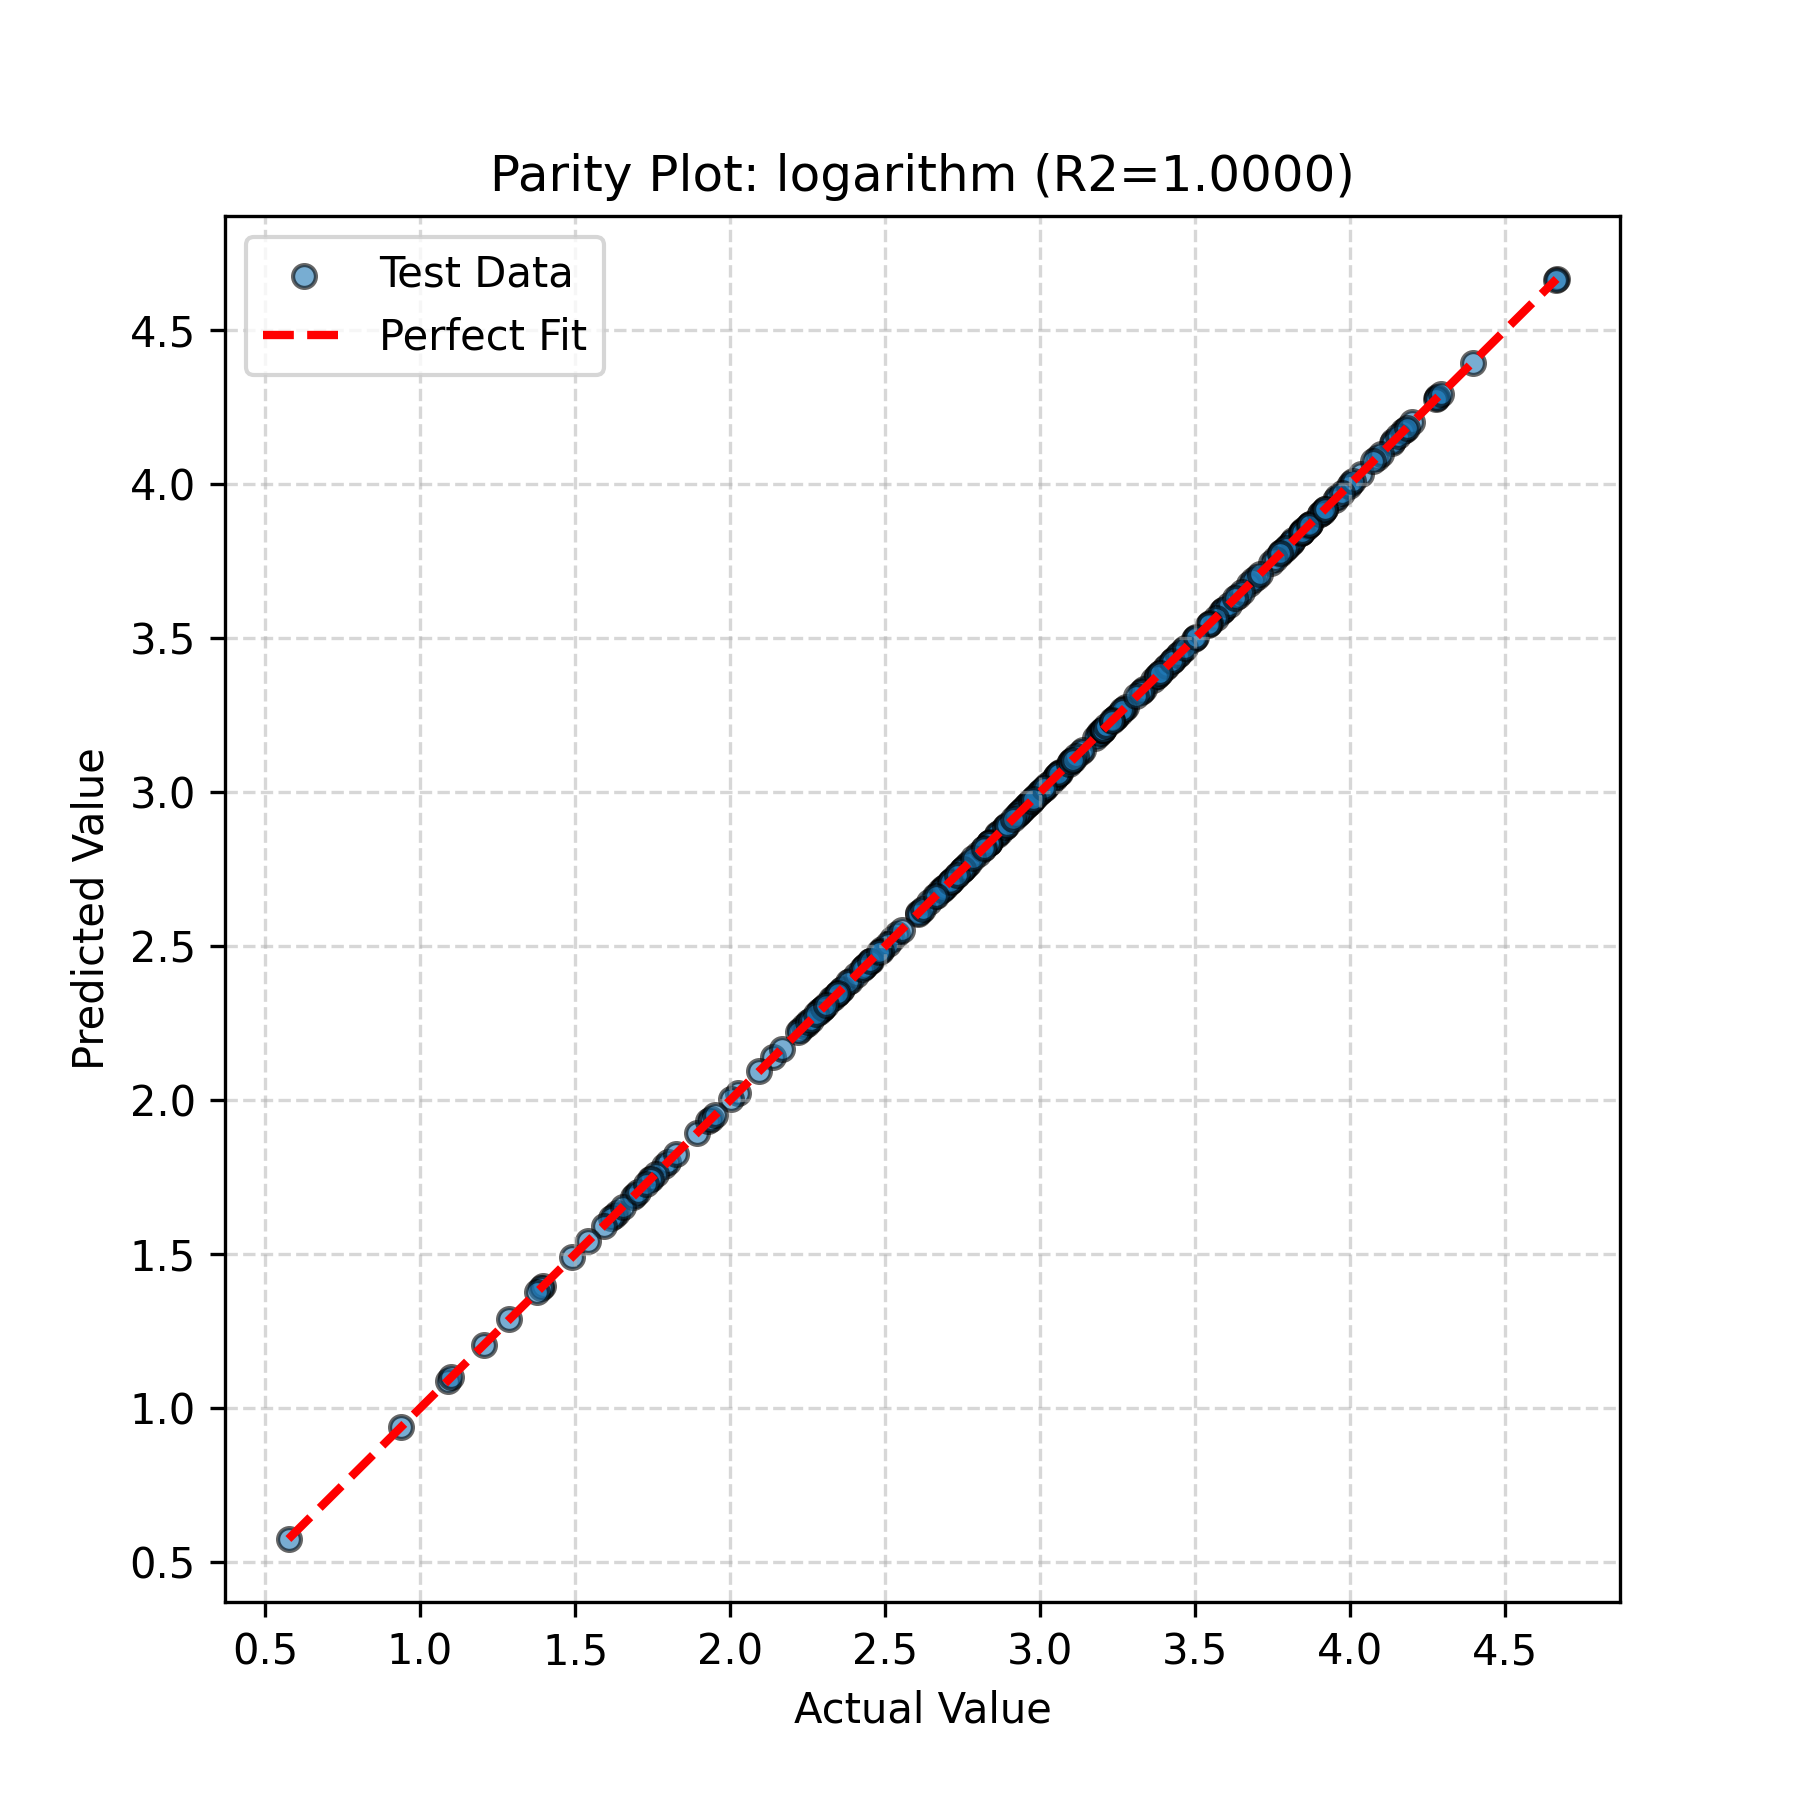
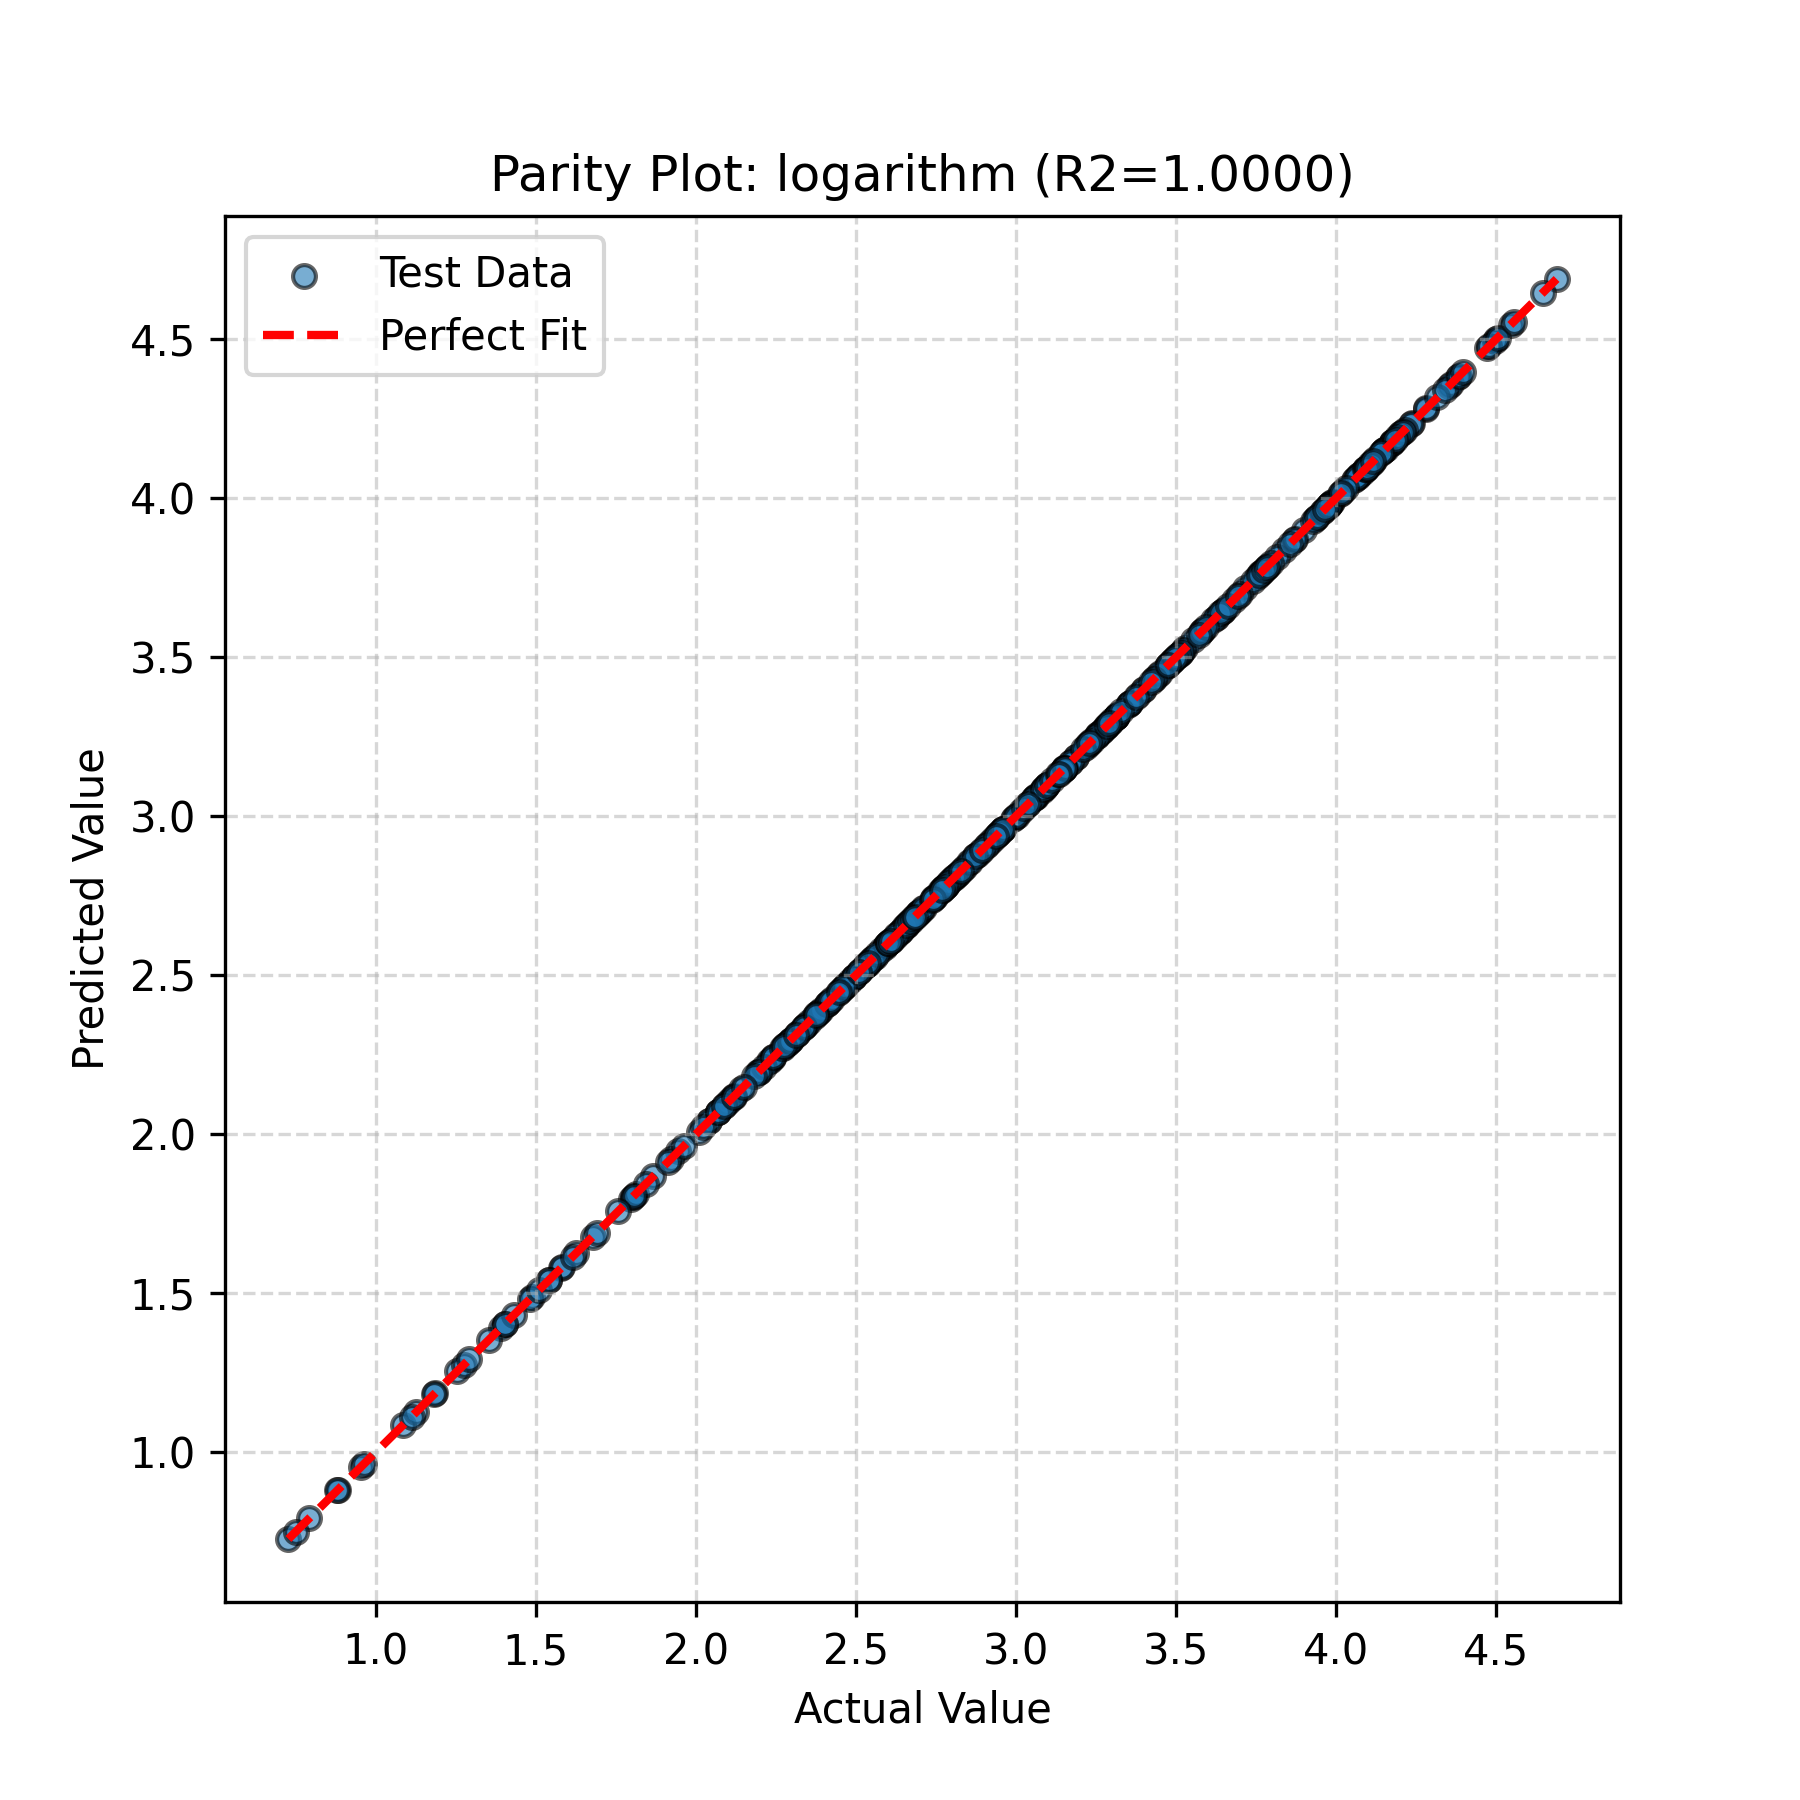
Tuning with a coarse grid and a high entropy parameter

diff --git a/github/workflows/Hyein/meta_executor.py b/github/workflows/Hyein/meta_executor.py
@@ -32,19 +32,19 @@ def main():
 
 
     target_scripts = [
-        # "github/workflows/Hyein/toy_KAN_sweep.py",
-        "github/workflows/Hyein/toy_KAN_analyze.py",
+        "github/workflows/Hyein/toy_KAN_sweep.py",
+        # "github/workflows/Hyein/toy_KAN_analyze.py",
         # "github/workflows/Hyein/toy_KAN_analyze_multi.py",
-        "github/workflows/Hyein/toy_analytic_SHAP_Sobol.py",
+        # "github/workflows/Hyein/toy_analytic_SHAP_Sobol.py",
         # DEPRECATED
         # "github/workflows/Hyein/toy_NN_tuning.py",
         # "github/workflows/Hyein/toy_NN_SHAP_Sobol.py",
     ]
     target_data = [
-        'log2',
-        # 'ishigami', 'rosenbrock',
-        # 'convolution', 'original', 'mult_periodic',
+        # 'log2',
         'exponential', 'logarithm',
+        'ishigami', 'rosenbrock',
+        # 'convolution', 'original', 'mult_periodic',
         # 'multiplication', 'conditional'
         # 'log_sum_2d', 'log_sum_5d', 'log_sum_10d', 'log_sum_30d',
     ] # + [f'convex_seed_{i}' for i in range(30)]
